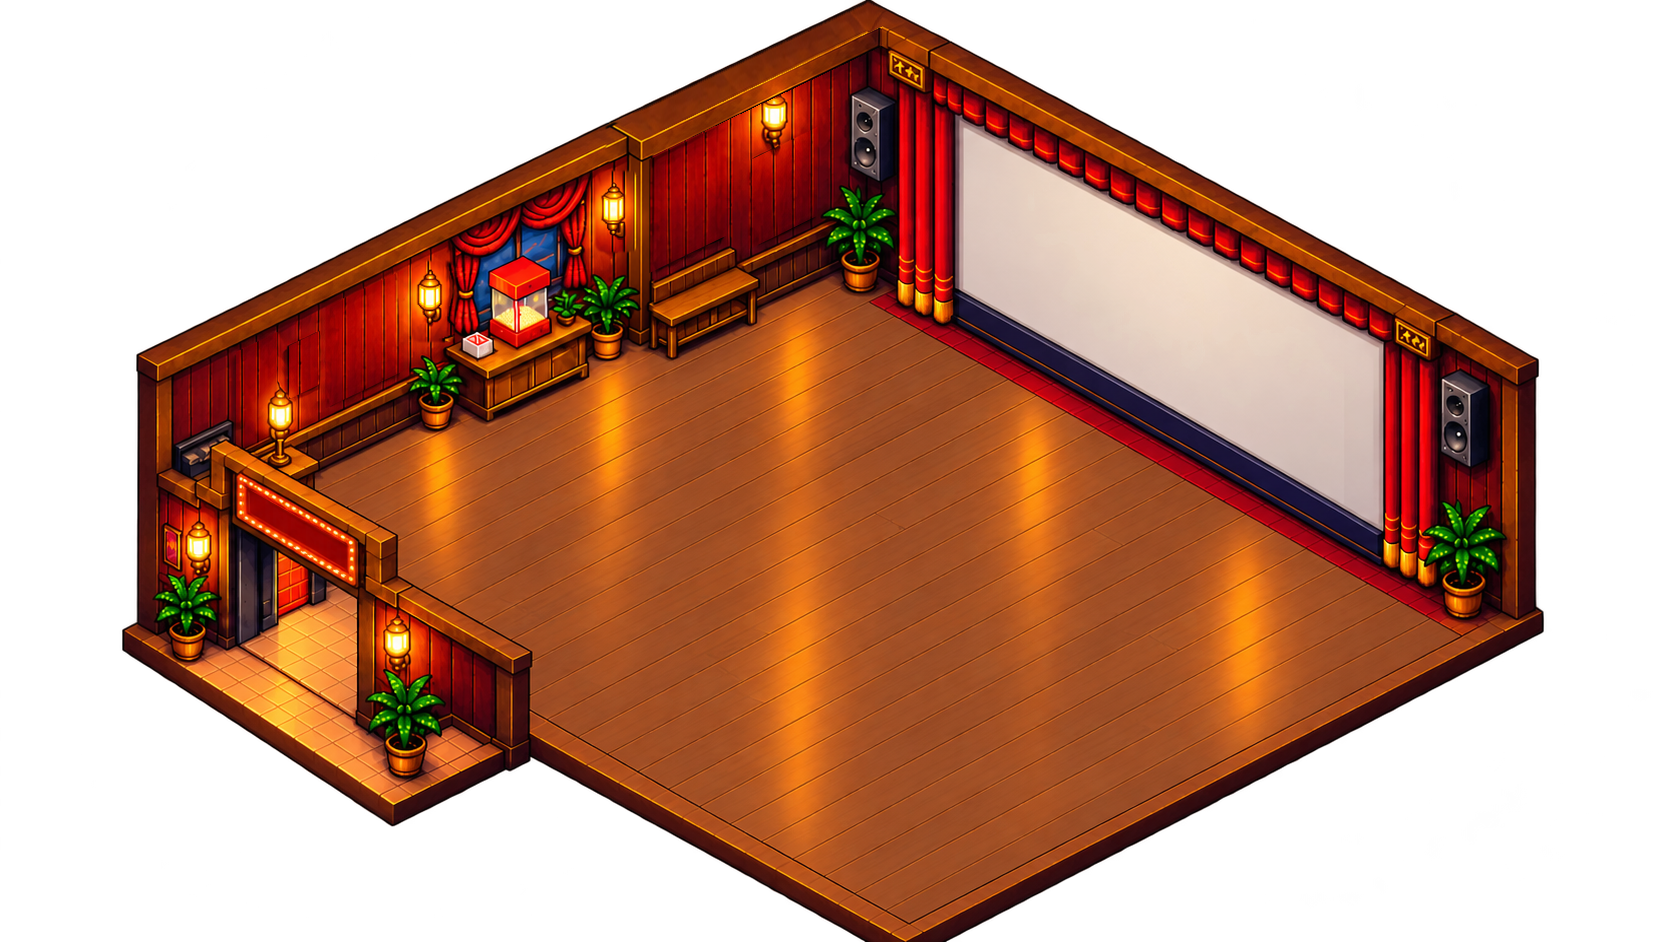
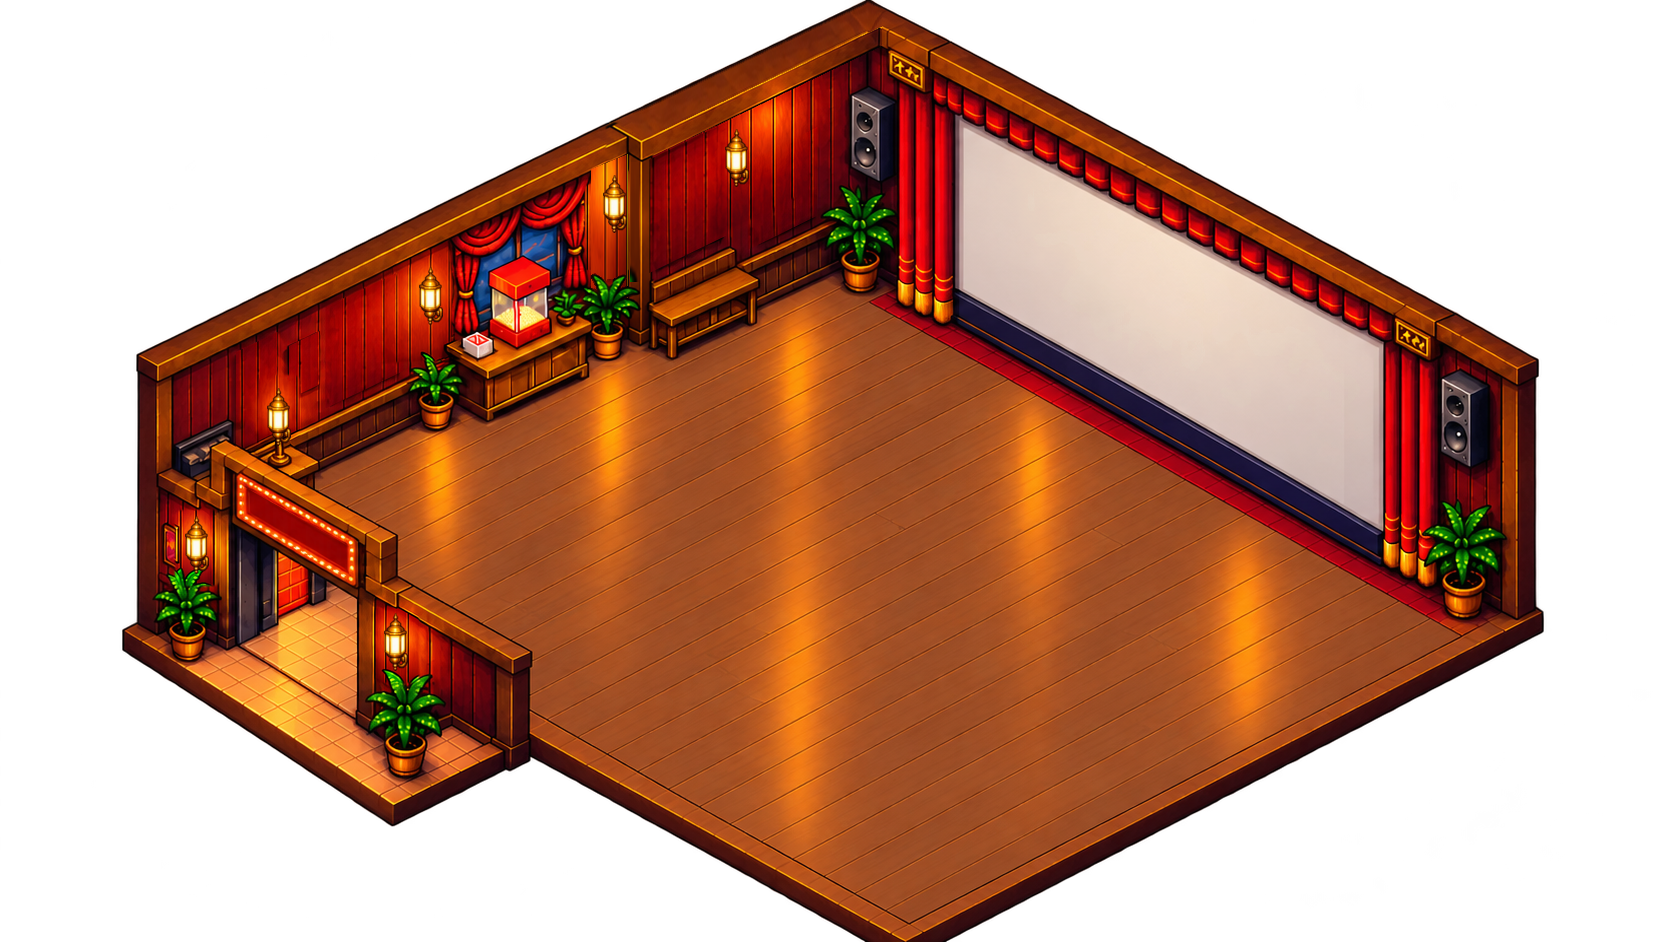
Straighten lantern wall panels and unify all six fixtures

diff --git a/js/art.js b/js/art.js
@@ -185,10 +185,10 @@
     front.restore();
     // Painted lamp positions in the displayed room art.
     const lights = [
-      [279, 412],
+      [279, 420],
       [431, 299],
       [615, 207],
-      [775, 115],
+      [737, 161], // clear of the cornice, in the gap between poster slots 4 and 5
       [197, 548],
       [396, 645],
       [517, 317]
